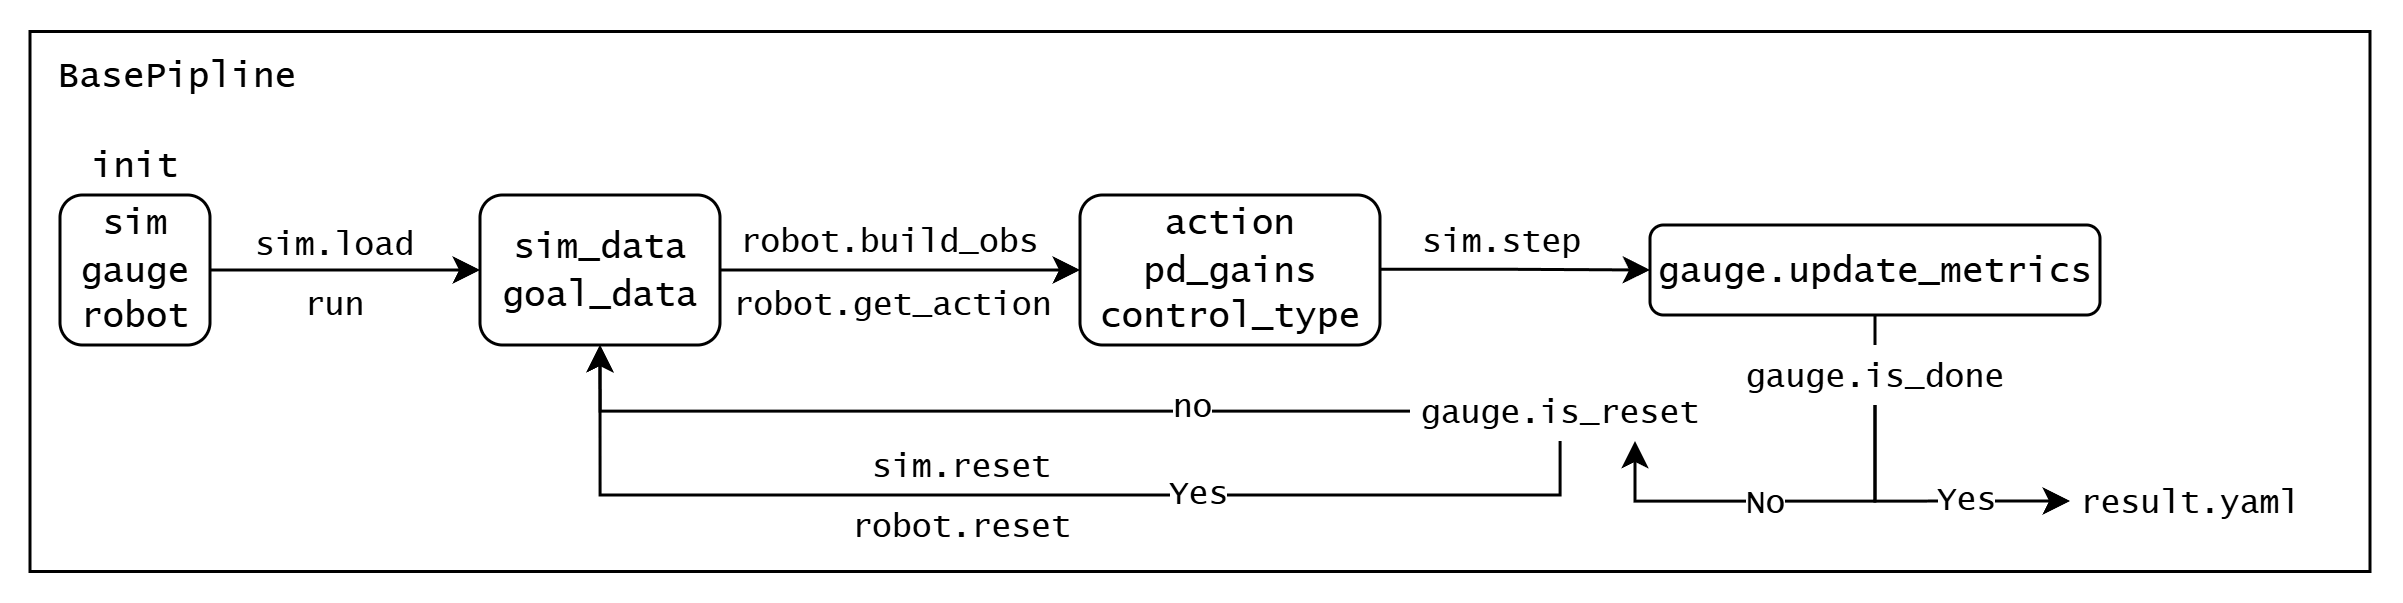
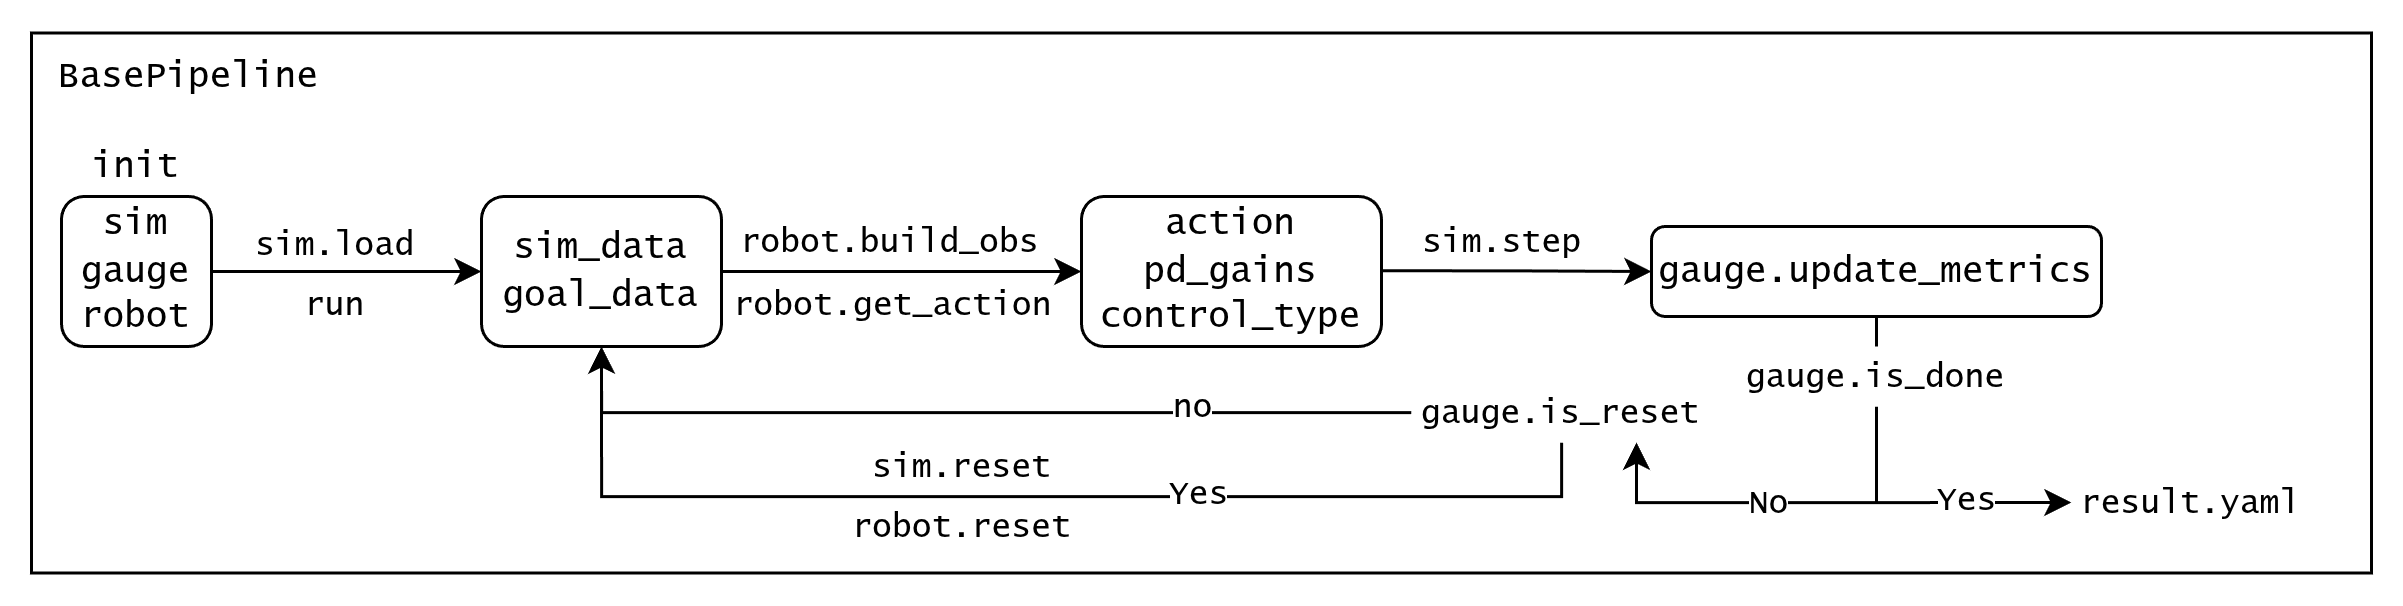
Update README

diff --git a/README_zh.md b/README_zh.md
@@ -89,7 +89,7 @@ while True:
 
 > 可通过`python legged_gym/scripts/train.py --task=xxx --robogauge`启动带有评估的训练，会等待客户端启动，结果会在`logs/{experiment_name}`目录下保存，并绘制tensorboard
 
-## 指标/目标/地形
+## 环境参数/指标/目标
 指标的计算方法是通过在环境中发送固定指令及持续时长, 通过Mujoco获取所需参数并计算.
 
 ### 环境参数
@@ -105,6 +105,8 @@ while True:
 #### 地形
 1. 支持legged_gym中的部分地形, 包括: `wave, slope, stairs up, stairs down, obstacles, flat`, 除`flat`地形外其他地形可进行难度系数提升
 2. 地面类型 (影响接触摩擦系数, 弹性摩擦系数), 包括: 橡胶地, 木地板, 瓷砖地
+
+地形生成代码：[windigal - mujoco_terrains](https://github.com/windigal/mujoco_terrains)
 
 ### 指标
 目前在每个`env.step`后可度量的指标, 所有指标均要求**越大越好**, 目前支持:
@@ -177,7 +179,11 @@ while True:
 - `assets/`：文档资源
 - `scripts/`：实验运行的辅助 shell 脚本
 
-### Pipeline逻辑
+### RoboGauge评估框架
+
+| 说明 | 框架图 |
+| - | - |
+| RoboGauge评估框架如右图中三部分组成：<br> Part A: BasePipeline负责单一评估环境，包含地形、机器人、域随机化、原始指标计算功能 <br> Part B: MultiPipeline通过多进程启动多个BasePipeline，进行多seed评估，LevelPipeline负责调用MultiPipeline寻找最高难度地形 <br> Part C: StressPipeline负责全地形下测试，给出整体RoboGauge评分| ![robogauge framework](./assets/robogauge_framework.jpg) |
 
 [BasePipeline](./robogauge/tasks/pipeline/base_pipeline.py)用于管理仿真`sim`, 度量器(控制指令, 指标计算)`gauge`, 机器人运控模型`robot`三者的调度, 并包含异常处理, 域随机化, 观测噪声的添加.
 
@@ -196,4 +202,4 @@ while True:
 解决方案: 在`robogauge/scripts/run.py`和`robogauge/scripts/server.py`中, 将`os.environ['MUJOCO_GL']`设置为`egl`(GPU)或`osmesa`(CPU, 慢)
 
 ## 致谢
-感谢[@windigal](https://github.com/windigal)剪辑视频
+感谢[@windigal](https://github.com/windigal)地形生成及视频剪辑

diff --git a/README.md b/README.md
@@ -100,7 +100,7 @@ Example integration: `update_robogauge` in [`go2_rl_gym - on_policy_runner.py`](
 
 > You can launch training with evaluation enabled via `python legged_gym/scripts/train.py --task=xxx --robogauge`. The trainer waits for the evaluation client to be available. Results are saved under `logs/{experiment_name}` and visualized in TensorBoard.
 
-## Metrics / Goals / Terrains
+## Env Params / Metrics / Goals
 
 Metrics are computed by sending fixed commands to the environment for a fixed duration, reading required signals from MuJoCo, and aggregating them.
 
@@ -201,7 +201,11 @@ Create a new robot implementation and control-model configuration under `robogau
 - `assets/`: documentation assets
 - `scripts/`: helper shell scripts for running experiments
 
-### Pipeline Logic
+### RoboGauge Framework
+
+| Details | Diagram |
+| - | - |
+| RoboGauge evaluation framework consists of three parts as shown in the diagram on the right: <br> Part A: BasePipeline handles a single evaluation environment, including terrain, robot, domain randomization, and raw metric computation. <br> Part B: MultiPipeline launches multiple BasePipelines in parallel processes for multi-seed evaluation, while LevelPipeline calls MultiPipeline to find the highest difficulty terrain that the policy can handle. <br> Part C: StressPipeline handles testing across all terrains, providing an overall RoboGauge score.| ![robogauge framework](./assets/robogauge_framework.jpg) |
 
 [BasePipeline](./robogauge/tasks/pipeline/base_pipeline.py) manages scheduling among the simulator `sim`, the gauge (command generation + metric computation) `gauge`, and the locomotion policy wrapper `robot`. It also includes exception handling, domain randomization, and observation noise.
 
@@ -224,4 +228,4 @@ Cause: MuJoCo cannot create an OpenGL context in headless mode.
 Fix: In `robogauge/scripts/run.py` and `robogauge/scripts/server.py`, set `os.environ['MUJOCO_GL']` to `egl` (GPU) or `osmesa` (CPU, slower).
 
 ## Thanks
-Thanks to [@windigal](https://github.com/windigal) for editing the videos.
+Thanks to [@windigal](https://github.com/windigal) for terrains generation and editing the videos.
